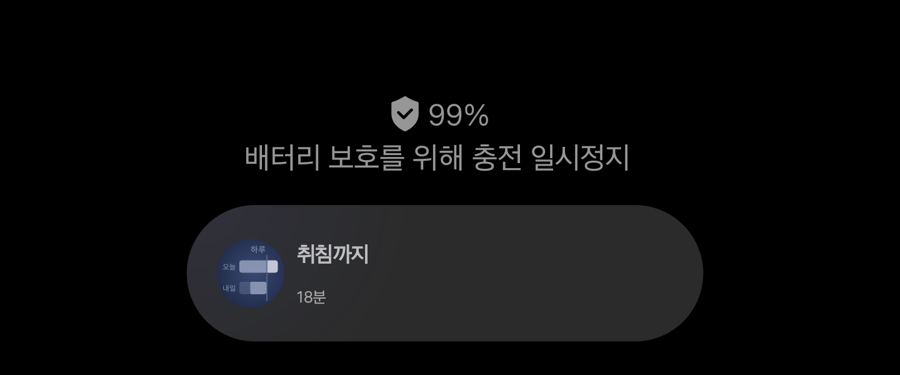
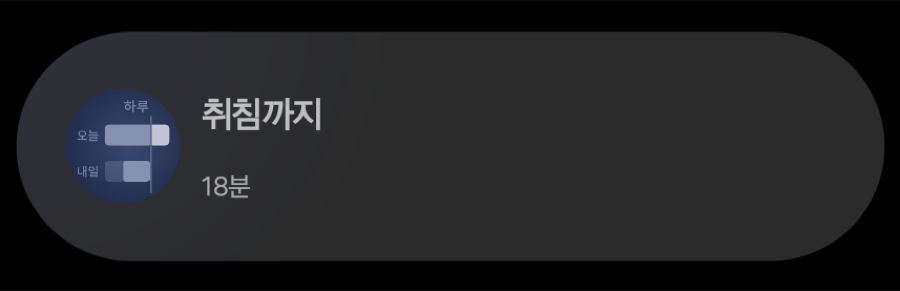
Now Bar 사진을 알약 둘레로 다시 오린다 — 배터리 알림이 같이 들어가 있었다 (#17)

diff --git a/tools/pull-sleep-now.py b/tools/pull-sleep-now.py
@@ -41,7 +41,11 @@ def shot(html: pathlib.Path, dst: pathlib.Path, size="1200,1500"):
 
 # ── 1. 글에 쓰는 화면 ────────────────────────────────────────────
 # 앱 화면은 폰에서 직접 찍은 것(app-light/app-dark)을 쓴다. 여기서는 잠금화면만.
-shrink(SRC / "img" / "nowbar.png", OUT / "nowbar.png", 900)
+# Now Bar — 원본 캡처에는 배터리 알림까지 들어 있다. 알약 둘레만 오려 쓴다
+_nb = OUT / "_nowbar.png"
+subprocess.run(["sips", "-c", "277", "857", "--cropOffset", "298", "283",
+                str(SRC / "img" / "nowbar.png"), "--out", str(_nb)], check=True, capture_output=True)
+shrink(_nb, OUT / "nowbar.png", 900); _nb.unlink()
 shutil.copy2(SRC / "img" / "demo.mp4", OUT / "demo.mp4")
 
 # 변천사 — 그때 화면을 그대로 (docs/explore 에 남아 있는 그림)
